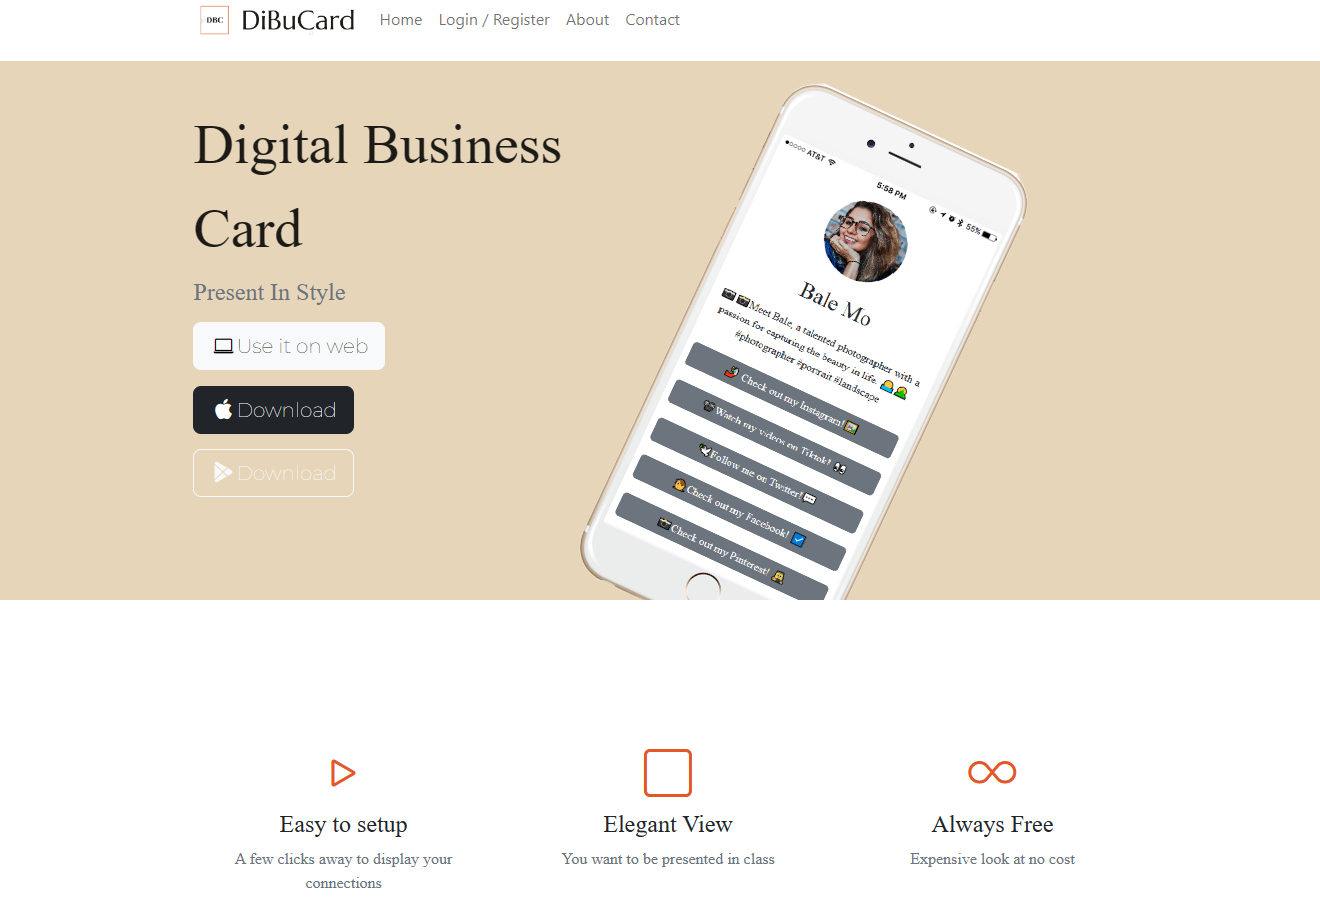
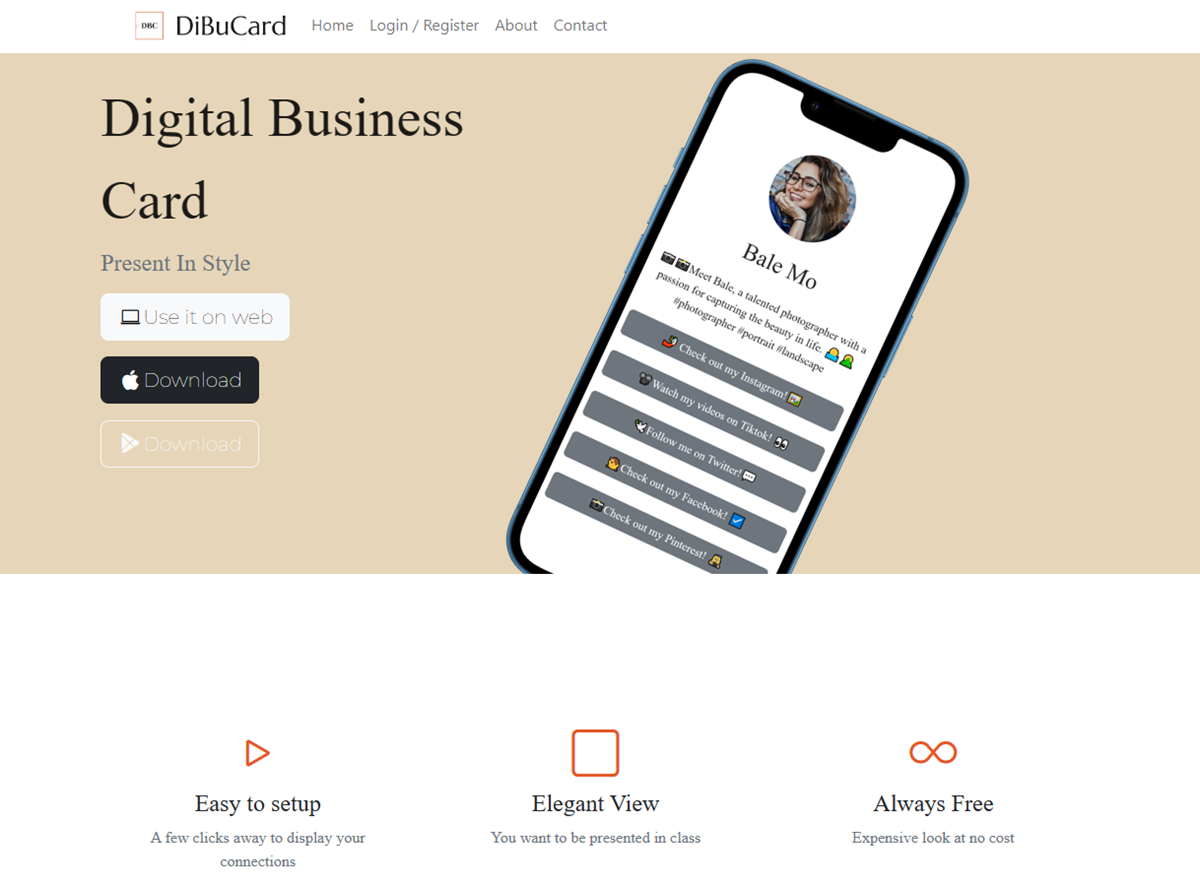
Updated DiBuCard project image and portfolio link

diff --git a/index.html b/index.html
@@ -271,7 +271,7 @@
         <div class="row g-0">
             <div class="card mb-3 col mx-3">
                 <div class="card-body mx-auto">
-                    <a class="portfolio-box" href="http://neginmakadibucard.pythonanywhere.com/"
+                    <a class="portfolio-box" href="https://negin-maka.netlify.app/"
                        rel="noreferrer noopener"
                        target="_blank" title="DiBuCard">
                         <img alt="DiBuCard" class="img-fluid spacing"
